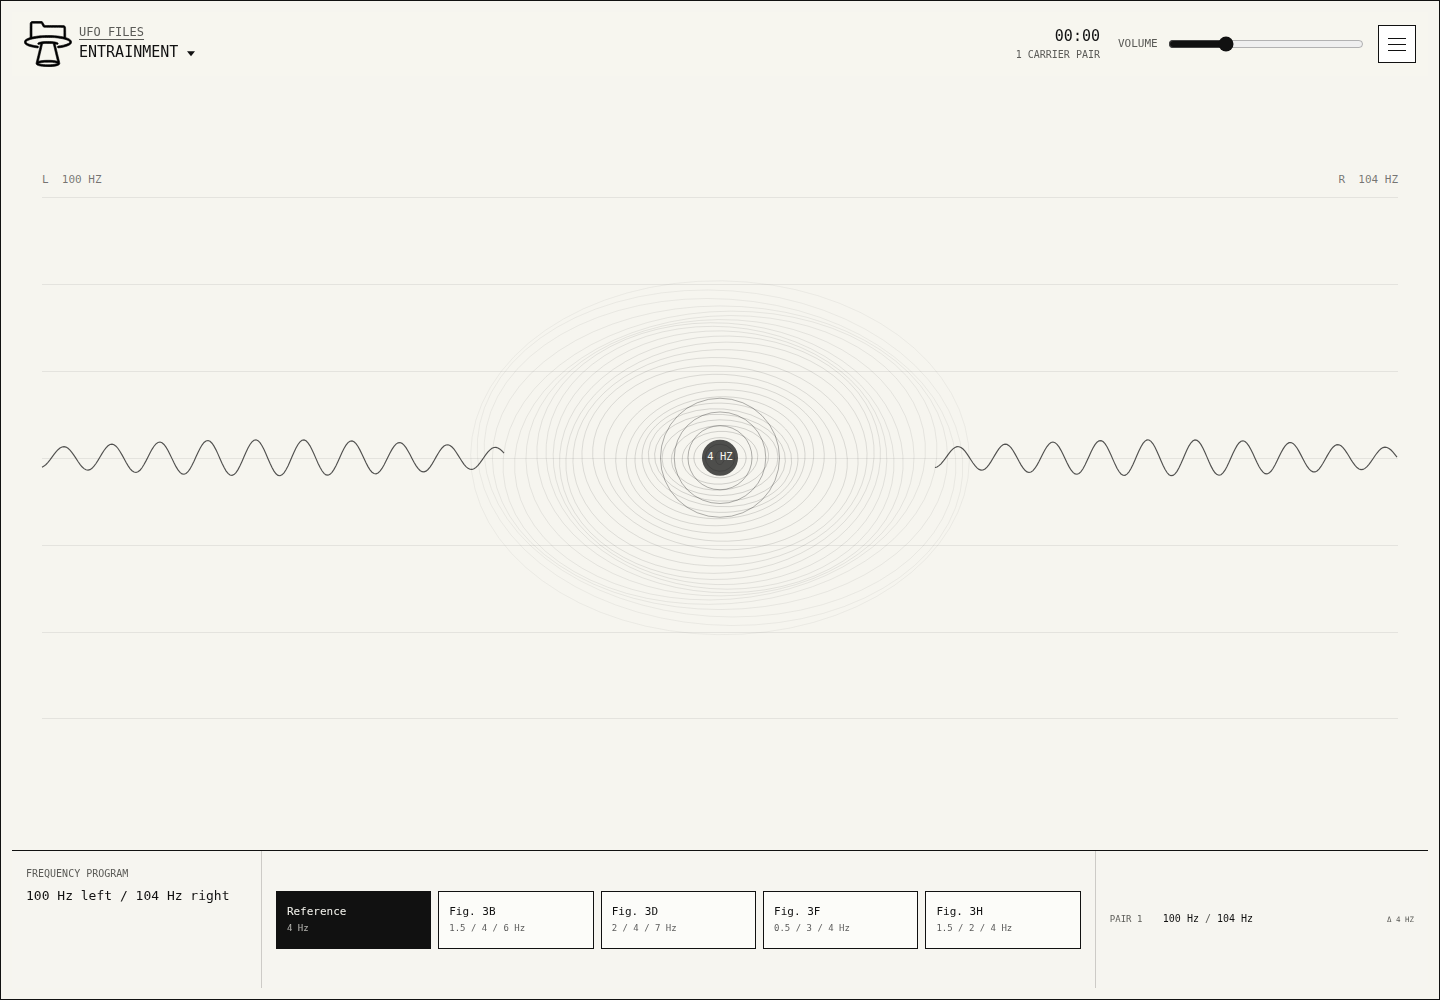
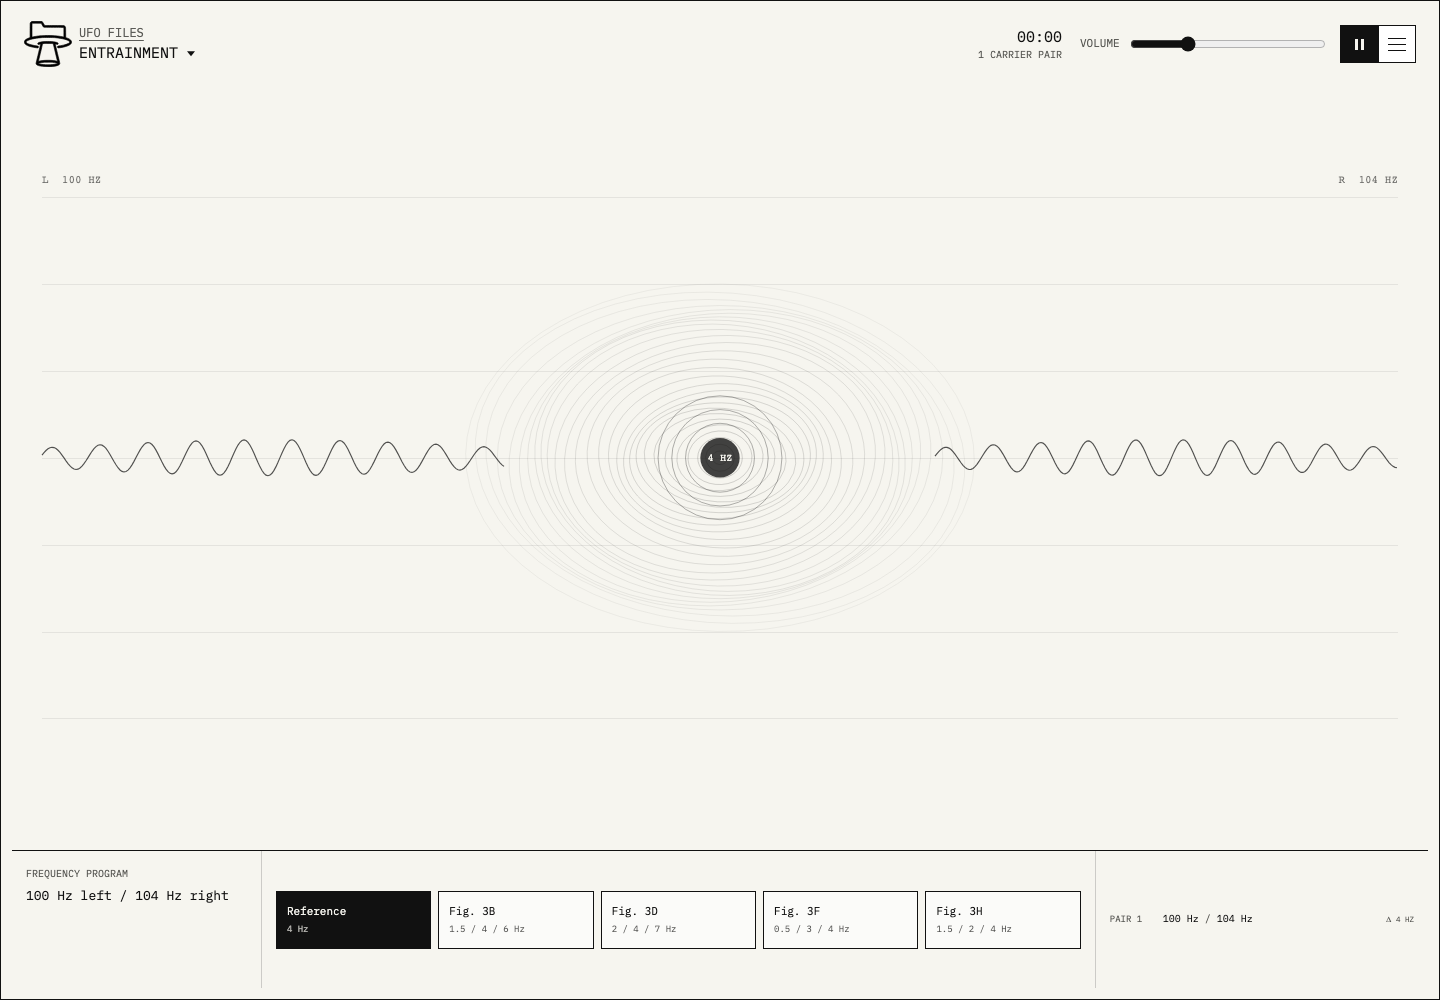
Add persistent playback control

diff --git a/styles.css b/styles.css
@@ -90,7 +90,7 @@ a {
   right: max(12px, env(safe-area-inset-right));
   z-index: 10;
   display: grid;
-  grid-template-columns: minmax(0, 1fr) auto minmax(170px, 260px) auto;
+  grid-template-columns: minmax(0, 1fr) auto minmax(170px, 260px) auto auto;
   align-items: center;
   min-height: 64px;
   padding: 8px 12px;
@@ -215,6 +215,21 @@ input[type="range"] {
   place-content: center;
   gap: 5px;
   padding: 0;
+}
+
+.transport-button {
+  display: inline-grid;
+  width: 38px;
+  min-width: 38px;
+  height: 38px;
+  place-content: center;
+  padding: 0;
+  background: var(--ink);
+  color: var(--bg);
+}
+
+.transport-button[hidden] {
+  display: none;
 }
 
 .menu-button span {
@@ -603,7 +618,7 @@ fieldset select {
 
 @media (max-width: 960px) {
   .topbar {
-    grid-template-columns: minmax(0, 1fr) auto auto;
+    grid-template-columns: minmax(0, 1fr) auto auto auto;
   }
 
   .header-volume {
@@ -662,6 +677,12 @@ fieldset select {
   }
 
   .menu-button {
+    width: 36px;
+    min-width: 36px;
+    height: 36px;
+  }
+
+  .transport-button {
     width: 36px;
     min-width: 36px;
     height: 36px;

diff --git a/tests/browser/app.spec.js b/tests/browser/app.spec.js
@@ -11,6 +11,14 @@ test("starts the stereo engine and switches to a three-pair program", async ({ p
   await page.getByRole("button", { name: "Start audio" }).click();
   await expect(page.locator("body")).toHaveClass(/has-started/);
   await expect(page.locator("#status")).toHaveText("Playing stereo signal");
+  await expect(page.getByRole("button", { name: "Pause audio" })).toBeVisible();
+
+  await page.getByRole("button", { name: "Pause audio" }).click();
+  await expect(page.locator("#status")).toHaveText("Audio paused");
+  await expect(page.getByRole("button", { name: "Resume audio" })).toBeVisible();
+
+  await page.getByRole("button", { name: "Resume audio" }).click();
+  await expect(page.locator("#status")).toHaveText("Playing stereo signal");
 
   await page.getByRole("button", { name: /Fig\. 3B/ }).click();
   await expect(page.locator("#pair-readout .pair-item")).toHaveCount(3);

diff --git a/script.js b/script.js
@@ -37,6 +37,7 @@ const elements = {
   panCycle: document.querySelector("#pan-cycle"),
   panCycleOutput: document.querySelector("#pan-cycle-output"),
   volume: document.querySelector("#volume"),
+  transportToggle: document.querySelector("#transport-toggle"),
   audioToggle: document.querySelector("#audio-toggle"),
   audioToggleLabel: document.querySelector("#audio-toggle-label"),
   reset: document.querySelector("#reset"),
@@ -122,6 +123,10 @@ function setProgramsOpen(open) {
 
 function setRunning(running) {
   document.body.classList.toggle("audio-paused", !running);
+  elements.transportToggle.hidden = false;
+  elements.transportToggle.setAttribute("aria-label", running ? "Pause audio" : "Resume audio");
+  elements.transportToggle.title = running ? "Pause audio" : "Resume audio";
+  elements.transportToggle.querySelector(".control-mark").className = `control-mark ${running ? "pause-mark" : "play-mark"}`;
   elements.audioToggleLabel.textContent = running ? "Pause" : "Resume";
   elements.audioToggle.querySelector(".control-mark").className = `control-mark ${running ? "pause-mark" : "play-mark"}`;
   elements.status.textContent = running ? "Playing stereo signal" : "Audio paused";
@@ -176,6 +181,7 @@ function resetSession() {
 }
 
 elements.start.addEventListener("click", () => startAudio());
+elements.transportToggle.addEventListener("click", () => toggleAudio());
 elements.audioToggle.addEventListener("click", () => toggleAudio());
 elements.reset.addEventListener("click", resetSession);
 elements.controlsToggle.addEventListener("click", () => {

diff --git a/index.html b/index.html
@@ -42,6 +42,10 @@
         <input id="volume" type="range" min="0" max="0.5" value="0.14" step="0.005">
       </label>
 
+      <button id="transport-toggle" class="transport-button" type="button" aria-label="Pause audio" title="Pause audio" hidden>
+        <span class="control-mark pause-mark" aria-hidden="true"></span>
+      </button>
+
       <button id="controls-menu-toggle" class="menu-button" type="button" aria-label="Open controls" aria-controls="controls-panel" aria-expanded="false">
         <span aria-hidden="true"></span>
         <span aria-hidden="true"></span>